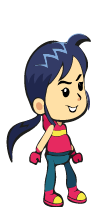
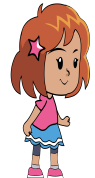
Menu  rotatorio - Escenarios y personajes

diff --git a/src/scenes/Characterselector.js b/src/scenes/Characterselector.js
@@ -1,0 +1,67 @@
+class Characterselector extends Phaser.Scene {
+    constructor() {
+        super({ key: 'Characterselector' });
+    }
+    preload(){
+        this.load.atlas('personajes', './assets/personajes.png', './assets/personajes_atlas.json')
+    }
+    create(){
+        //const graphics = this.add.graphics({          //OCULTAR LAS LINEAS DE LA FIGURA GEOMETRICA
+        //    lineStyle: {width:2, color: 0x00ff00}     //OCULTAR LAS LINEAS DE LA FIGURA GEOMETRICA
+        //});                                           //OCULTAR LAS LINEAS DE LA FIGURA GEOMETRICA
+        const elipse = new Phaser.Curves.Ellipse({
+            x:683,
+            y:370,
+            xRadius: 300,
+            yRadius: 120
+        });
+        const totalItems = 4;
+        const points = elipse.getPoints(totalItems);
+        points.pop();
+        //console.log(points);
+
+        console.log('puntos', points)
+        let minY = points.reduce((prev, current) => (current.y <= prev) ? current.y : prev, points[0].y);
+        let maxY = points.reduce((prev, current) => (current.y >= prev) ? current.y : prev, points[0].y);
+        
+        const alphaRange = 1 / (maxY - minY);
+        const scaleRange = 0.4 / (maxY - minY);
+        //console.log('punto minimo', minY , 'punto maximo', maxY);
+
+        const images = points.map((point, index) => {
+            const image = this.add.image(point.x, point.y, 'personajes', 'personajes_' + index);
+            image.setScale(0.5 + scaleRange * (point.y - minY));
+            image.setAlpha(alphaRange * (point.y - minY));
+            image.setDepth(point.y);
+
+            return image;
+        });
+        this.input.on(Phaser.Input.Events.POINTER_DOWN, () => {
+            points.forEach((p, index) => {
+                const finalPoint = (index === points.length - 1);
+
+                const image = images[index];
+                const point = (finalPoint) ? points[0] : points[index + 1];
+                
+                const x = point.x;
+                const y = point.y;
+
+                this.tweens.add({
+                    targets: image,
+                    x,
+                    y,
+                    ease: 'power1',
+                    duration: 500,
+                    onUpdate: (tween, target) => {
+                        image.setScale(0.5 + scaleRange * (target.y - minY));
+                        image.setAlpha(alphaRange*(target.y - minY));
+                        image.setDepth(target.y);
+                    }
+                })
+            });
+            Phaser.Utils.Array.RotateLeft(points);
+        });
+        //graphics.strokeEllipseShape(elipse, totalItems);  //OCULTAR LAS LINEAS DE LA FIGURA GEOMETRICA
+    }
+}
+export default Characterselector;

diff --git a/src/scenes/Sceneselector.js b/src/scenes/Sceneselector.js
@@ -1,0 +1,67 @@
+class Sceneselector extends Phaser.Scene{
+    constructor(){
+        super({key : 'Sceneselector'});
+    }
+    preload(){
+        this.load.atlas('escenarios', './assets/escenarios.png', './assets/escenarios_atlas.json')
+    }
+    create(){
+        //const graphics = this.add.graphics({      //OCULTAR LAS LINEAS DE LA FIGURA GEOMETRICA
+        //    lineStyle: {width:2, color: 0x00ff00} //OCULTAR LAS LINEAS DE LA FIGURA GEOMETRICA
+        //});                                       //OCULTAR LAS LINEAS DE LA FIGURA GEOMETRICA
+        const elipse = new Phaser.Curves.Ellipse({
+            x:683,
+            y:370,
+            xRadius: 300,
+            yRadius: 120
+        });
+        const totalItems = 4;
+        const points = elipse.getPoints(totalItems);
+        points.pop();
+        //console.log(points);
+
+        console.log('puntos', points)
+        let minY = points.reduce((prev, current) => (current.y <= prev) ? current.y : prev, points[0].y);
+        let maxY = points.reduce((prev, current) => (current.y >= prev) ? current.y : prev, points[0].y);
+        
+        const alphaRange = 1 / (maxY - minY);
+        const scaleRange = 0.4 / (maxY - minY);
+        //console.log('punto minimo', minY , 'punto maximo', maxY);
+
+        const images = points.map((point, index) => {
+            const image = this.add.image(point.x, point.y, 'escenarios', 'escenarios_' + index);
+            image.setScale(0.5 + scaleRange * (point.y - minY));
+            image.setAlpha(alphaRange * (point.y - minY));
+            image.setDepth(point.y);
+
+            return image;
+        });
+        this.input.on(Phaser.Input.Events.POINTER_DOWN, () => {
+            points.forEach((p, index) => {
+                const finalPoint = (index === points.length - 1);
+
+                const image = images[index];
+                const point = (finalPoint) ? points[0] : points[index + 1];
+                
+                const x = point.x;
+                const y = point.y;
+
+                this.tweens.add({
+                    targets: image,
+                    x,
+                    y,
+                    ease: 'power1',
+                    duration: 500,
+                    onUpdate: (tween, target) => {
+                        image.setScale(0.5 + scaleRange * (target.y - minY));
+                        image.setAlpha(alphaRange*(target.y - minY));
+                        image.setDepth(target.y);
+                    }
+                })
+            });
+            Phaser.Utils.Array.RotateLeft(points);
+        });
+        //graphics.strokeEllipseShape(elipse, totalItems); //OCULTAR LAS LINEAS DE LA FIGURA GEOMETRICA
+    }
+}
+export default Sceneselector;

diff --git a/src/main.js b/src/main.js
@@ -1,7 +1,9 @@
 // IMPORTAR LA PRIMERA ESCENA
+import Characterselector from './scenes/Characterselector.js';
 import Firstscene from './scenes/Firstscene.js'
 import gameboy from './scenes/gameboy.js';
 import MenuselectorS from './scenes/MenuselectorS.js';
+import Sceneselector from './scenes/Sceneselector.js';
 import Start from './scenes/Start.js';
 //import Start from './scenes/Start.js';
 
@@ -48,7 +50,7 @@ const config = {
     },
 
     //ESCENAS DEL JUEGO
-    scene: [Start, MenuselectorS, Firstscene]
+    scene: [Characterselector, Firstscene]
 };
 
 // CREAR LA INSTANCIA DEL JUEGO

diff --git a/index.html b/index.html
@@ -5,6 +5,14 @@
     <meta http-equiv="X-UA-Compatible" content="IE=edge">
     <meta name="viewport" content="width=device-width, initial-scale=1.0">
     <title>Sprite</title>
+    <style>
+        *{
+            margin: 0px;
+        }
+        body{
+            justify-content: center;
+        }
+    </style>
 </head>
 <body>
     <div id="container"></div>
